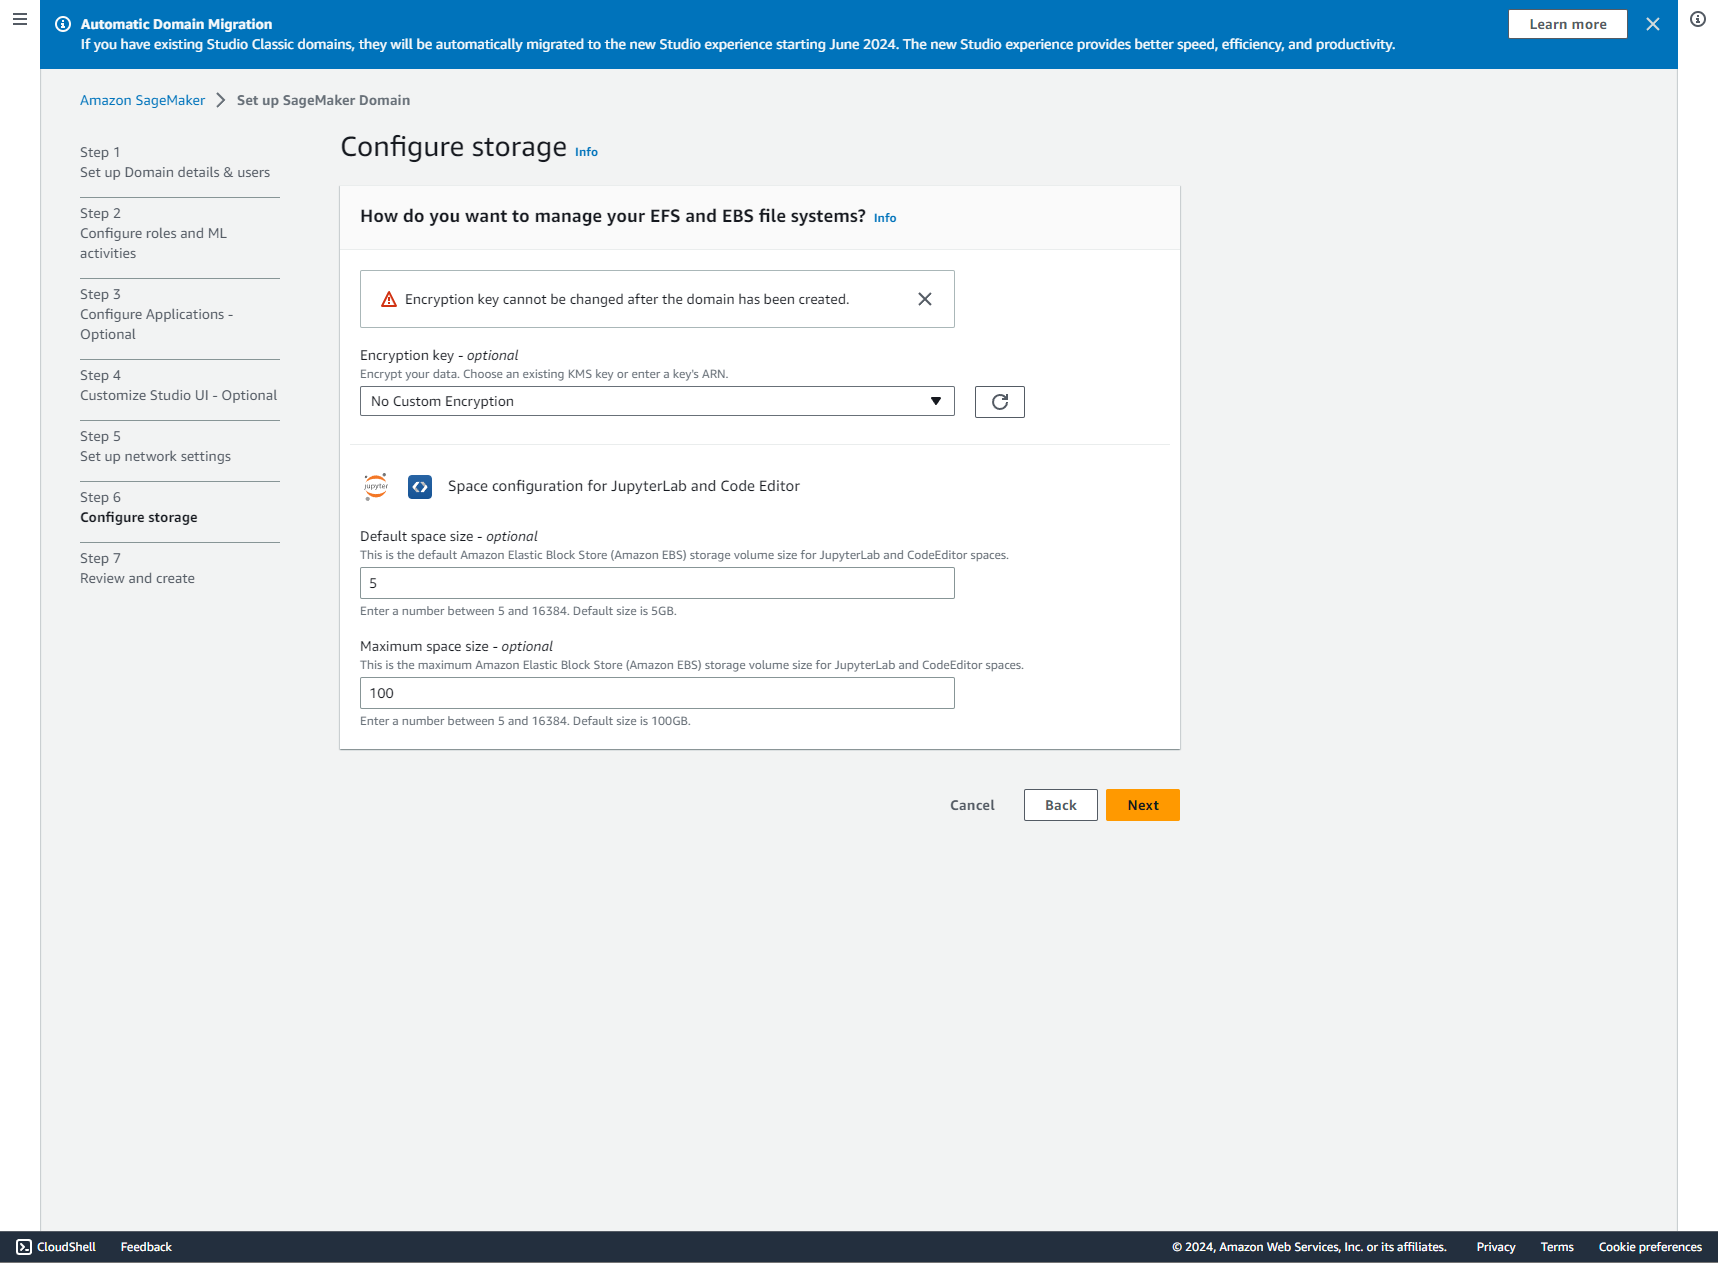
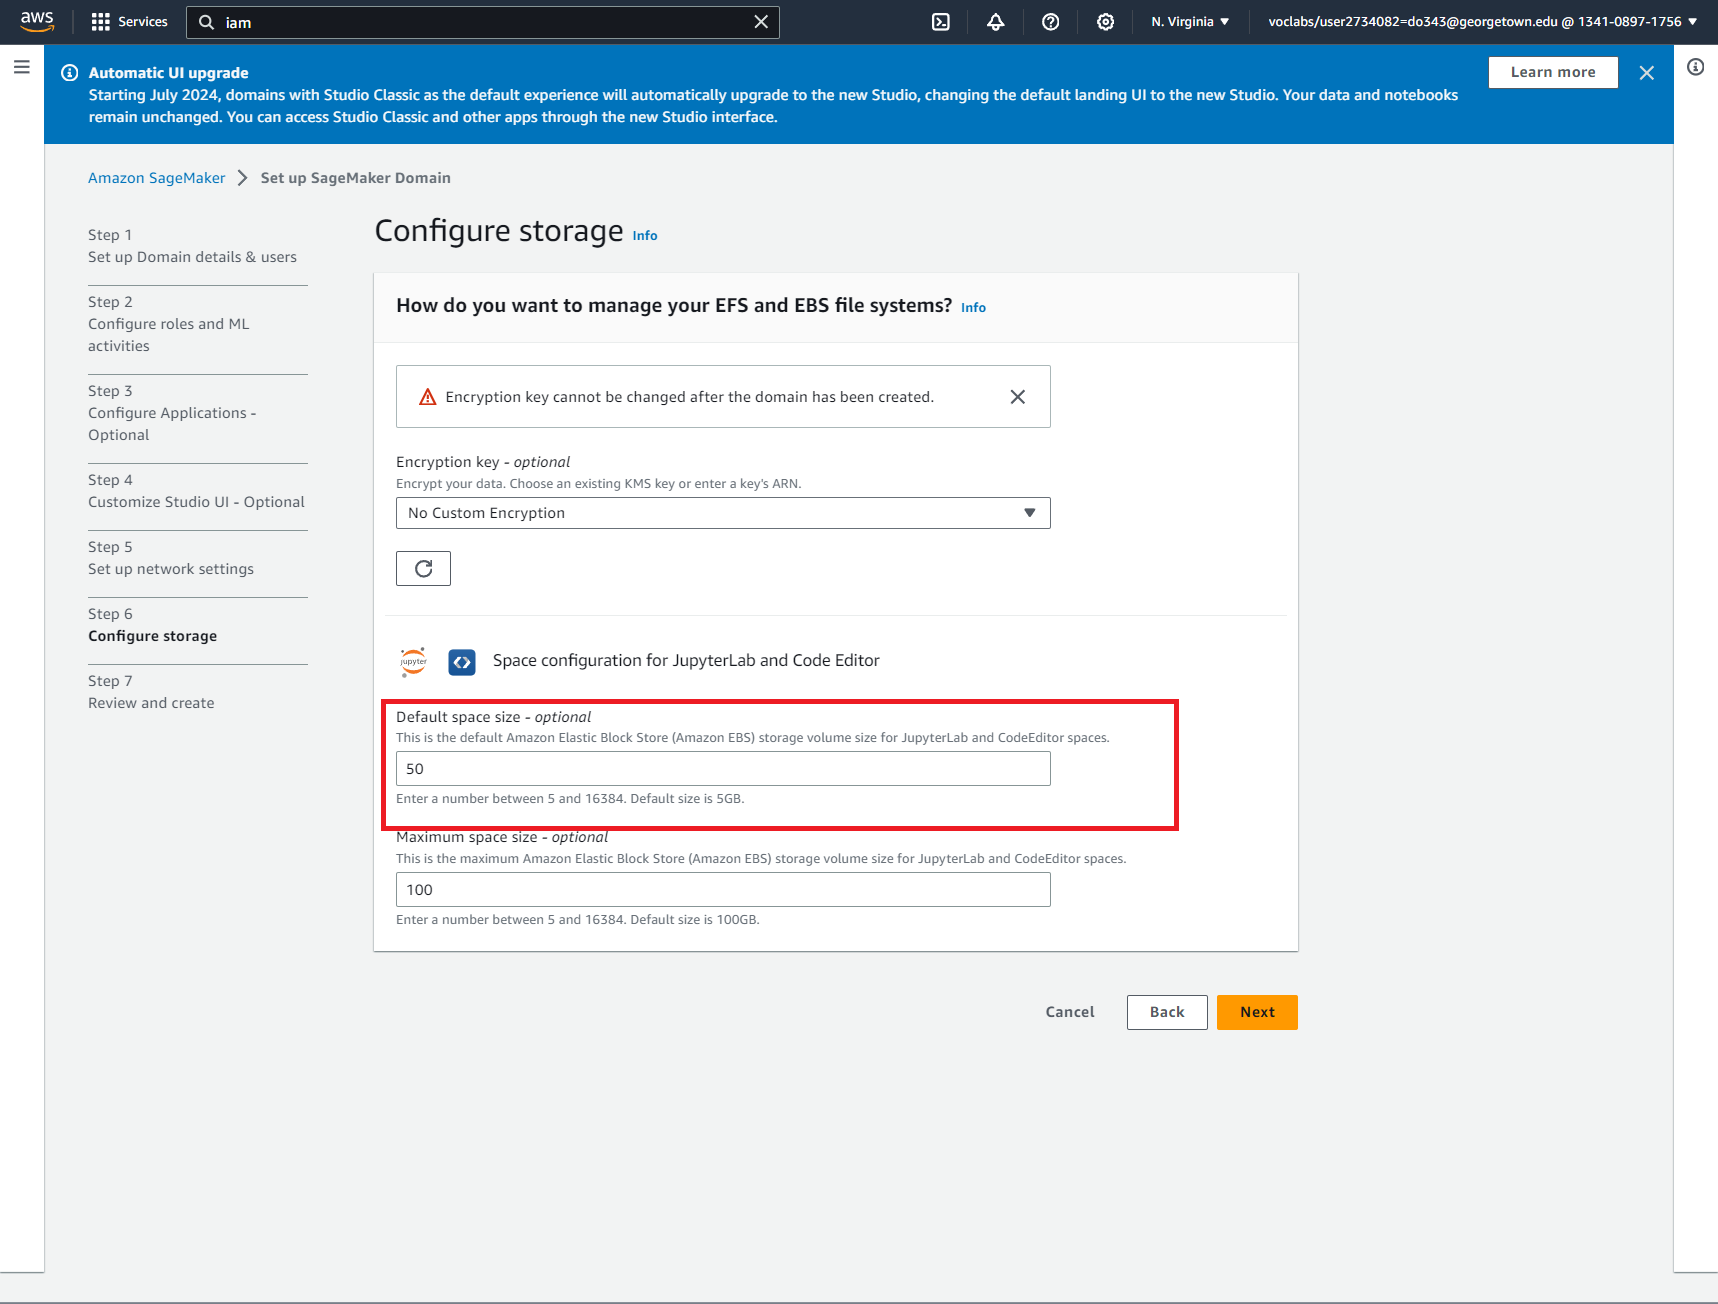
lab 02 (more) updates

diff --git a/docs/labs/02-labs.html b/docs/labs/02-labs.html
@@ -338,32 +338,39 @@ Note
 <section id="task-2-create-a-sagemaker-studio-domain-and-notebook" class="level1">
 <h1>Task 2: Create a SageMaker Studio Domain and Notebook</h1>
 <p>The Amazon SageMaker Studio is one of the data science tools that we will be using during this course. We will set a SageMaker Studio domain and start a Jupyter Notebook as part of this task so that we can use it for future labs.</p>
-<ol type="1">
-<li><p>Navigate to SageMaker Studio. <a href="img/1-landing-page.png"><img src="img/1-landing-page.png" class="img-fluid"></a></p></li>
-<li><p>Select Amazon Sagemaker, Click on Domains on the side bar <a href="img/2-domain-page.png"><img src="img/2-domain-page.png" class="img-fluid"></a></p></li>
-<li><p>Click on Create Domain, This screen should pop up! <a href="img/3-domain-setup.png"><img src="img/3-domain-setup.png" class="img-fluid"></a></p></li>
-<li><p>Enter a name for your domain as shown above. Click on next</p></li>
-<li><p>Click on the arrow under Canvas and Disable everything related to canvas as shown in the screenshot <a href="img/5-canvas-setup.png"><img src="img/5-canvas-setup.png" class="img-fluid"></a></p></li>
-</ol>
-<div class="callout-important callout callout-style-default callout-captioned">
+<div class="callout-note callout callout-style-default callout-captioned">
 <div class="callout-header d-flex align-content-center">
 <div class="callout-icon-container">
 <i class="callout-icon"></i>
 </div>
 <div class="callout-caption-container flex-fill">
-Important
+Note
 </div>
 </div>
 <div class="callout-body-container callout-body">
-<p>Under <code>Canvas Ready to use models</code> configuration, select <code>Use an Existing execution role</code> and paste the <code>ARN</code> of your <code>LabRole</code>. To do this, open your AWS console in another tab, while keeping this tab open, Search for IAM and follow the steps below.</p>
+<ol type="1">
+<li><p>All screenshots on this page are clickable i.e.&nbsp;you can click on these to see an enlarged version of the screenshot for better clarity.</p></li>
+<li><p>Pay special attention to portions of the screenshot highlighted in a red rectangle, they usually correspond to non-default options. If you miss any of these your SageMaker domain would not be created correctly and you may have to repeat the entire procedure.</p></li>
+</ol>
 </div>
 </div>
 <ol type="1">
-<li><p>Go to IAM Dashboard. <a href="img/7-IAM-setup.png"><img src="img/7-IAM-setup.png" class="img-fluid"></a></p></li>
-<li><p>Click on Roles on the sidebar, then select <strong>LabRole</strong> <a href="img/8-IAM-Role-Select.png"><img src="img/8-IAM-Role-Select.png" class="img-fluid"></a></p></li>
-<li><p>You should see ARN on the top. Copy the ARN by clicking the copy button <a href="img/9-IAM-ARN-Select.png"><img src="img/9-IAM-ARN-Select.png" class="img-fluid"></a></p></li>
-<li><p>You should see this! <a href="img/10-IAM-ARN-Copy.png"><img src="img/10-IAM-ARN-Copy.png" class="img-fluid"></a></p></li>
-<li><p>Go back to the setup page. Paste the ARN As shown in Step-5. Click on Next <a href="img/11-Setup-next.png"><img src="img/11-Setup-next.png" class="img-fluid"></a></p></li>
+<li><p>Navigate to SageMaker Studio. <a href="img/1-landing-page.png"><img src="img/1-landing-page.png" class="img-fluid"></a></p></li>
+<li><p>Select Amazon Sagemaker, Click on Domains on the side bar <a href="img/2-domain-page.png"><img src="img/2-domain-page.png" class="img-fluid"></a></p></li>
+<li><p>Select <strong>Set up for organizations</strong>. <a href="img/2-1-domain-page.png"><img src="img/2-1-domain-page.png" class="img-fluid"></a></p></li>
+<li><p>Click on Create Domain, This screen should pop up! <a href="img/3-domain-setup.png"><img src="img/3-domain-setup.png" class="img-fluid"></a></p></li>
+<li><p>Enter a name for your domain as shown above. Click on next</p></li>
+<li><p>Select <strong>Use an existing role</strong> and then select <strong>LabRole</strong>. <a href="img/sm-iam.png"><img src="img/sm-iam.png" class="img-fluid"></a></p></li>
+<li><p>On the next page, do the following:</p>
+<ul>
+<li><strong>Disable both settings under MLOps configuration</strong>.</li>
+<li>Under <strong>Canvas ready to use model configuration</strong> section, select “Use existing role” -&gt; “Custom IAM role ARN” and in the edit box type the ARN of the <strong>LabRole</strong> role. The ARN of the <strong>LabRole</strong> is of the form <code>arn:aws:iam::your_account_id:role/LabRole</code>, copy paste this string in the <strong>Custom IAM role ARN</strong> box and then replace <code>your_account_id</code> with the account id of your AWS account. You can find the account id of your AWS account in the top right corner of your browser window (it is highlighted in the red rectangle in this screenshot, enter it without the “-”, for example <code>987733172745</code>).</li>
+</ul>
+<div class="quarto-figure quarto-figure-center">
+<figure class="figure">
+<p><a href="img/sm-configure-apps.png"><img src="img/sm-configure-apps.png" class="img-fluid figure-img"></a></p>
+</figure>
+</div></li>
 <li><p>Follow the screenshot <a href="img/12-Setup-step-4.png"><img src="img/12-Setup-step-4.png" class="img-fluid"></a></p></li>
 <li><p>Click on next. <a href="img/13-Setup-step4-next.png"><img src="img/13-Setup-step4-next.png" class="img-fluid"></a></p></li>
 <li><p>Select Public Internet Access, follow the screenshot and click on next. <strong><em>Note that the subnet and security group ids for your account would be different from what you see in the screenshot. Select all the subnets in the drop down (we will discuss in class why this is required).</em></strong> <a href="img/14-VPC-setup.png"><img src="img/14-VPC-setup.png" class="img-fluid"></a></p></li>
